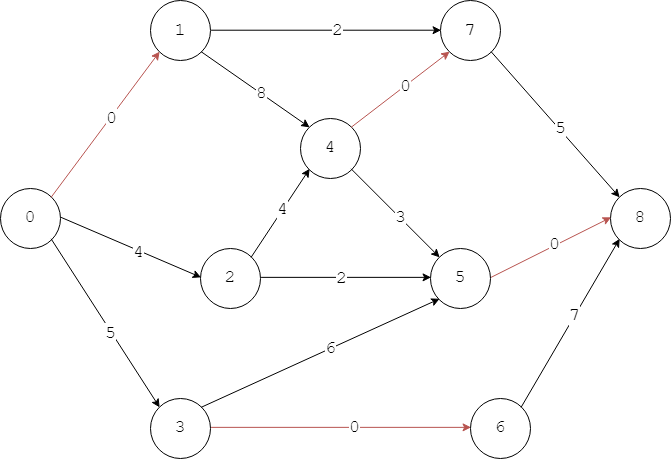
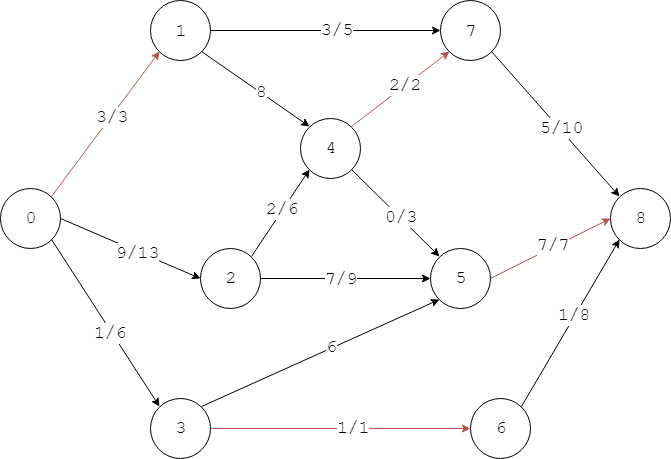
add dinic picture, update left flow formula

diff --git a/docs/GraphTheory/NetworkFlow/PushRelabel/README.md b/docs/GraphTheory/NetworkFlow/PushRelabel/README.md
@@ -10,7 +10,7 @@
 
 #### 定义
 
-设网络中每个节点都有一个水位高度$$ level $$，设节点$$ v_i $$的邻节点为$$ [v_{1}, v_{2}, \dots, v_{n}] $$，与这些邻节点的边为$$ e_{i,j} $$（其中$$ 1 \leq j \leq n $$），容量为$$ c(i,j) $$。节点$$ v_i, v_j $$已经存在的流为$$ f(i,j) $$，满足反对称性$$ f(i,j) = -f(j,i) $$，当$$ f(i,j) \lt c(i,j) $$时边$$ e_{i,j} $$仍然可以容纳更多的流，当$$ f(i,j) = c(i,j) $$时边$$ e_{i,j} $$为饱和边，不能容纳更多的流。
+设网络中每个节点都有一个水位高度$$ level $$，设节点$$ v_i $$的邻节点为$$ [v_{1}, v_{2}, \dots, v_{n}] $$，与这些邻节点的边为$$ e_{i,j} $$（其中$$ 1 \leq j \leq n $$），容量为$$ c(i,j) $$。节点$$ v_i, v_j $$已经存在的流为$$ f(i,j) $$，满足反对称性$$ f(i,j) = -f(j,i) $$，当$$ c_f(i,j) = c(i,j) - f(i,j) \gt 0 $$时边$$ e_{i,j} $$仍然可以容纳更多的流，当$$ c_f(i,j) = 0 $$时边$$ e_{i,j} $$为饱和边，不能容纳更多的流。
 
 设节点$$ u $$（$$ u \in V \backslash {s, t} $$）的流入和流出之差为：
 
@@ -18,7 +18,7 @@ $$
 x(u) = inflow_{u} - outflow_{u} = \sum_{p \in V} f(p, u) - \sum_{q \in V} f(u, q)
 $$
 
-若相邻节点$$ v_i, v_j $$满足$$ c(i,j) - f(i,j) \gt 0 $$，称$$ v_i, v_j $$之间可以容纳额外/更多的流，否则认为$$ v_i $$无法流向$$ v_j $$。
+若相邻节点$$ v_i, v_j $$满足$$ c_f \gt 0 $$，称$$ v_i, v_j $$之间可以容纳额外/更多的流，否则认为$$ v_i $$无法流向$$ v_j $$。
 
 #### 压入操作
 
@@ -26,7 +26,7 @@ $$
 
 $$ (1) $$ 相邻节点$$ v_i, v_j $$的水位满足$$ level_{i} = level_{j} + 1 $$（称$$ v_j $$在$$ v_i $$的低位，$$ v_i $$在$$ v_j $$的高位）；
 
-$$ (2) $$ 相邻节点$$ v_i, v_j $$的边的容量满足$$ c(i,j) - f(i,j) \gt 0 $$；
+$$ (2) $$ 相邻节点$$ v_i, v_j $$的边的容量满足$$ c_f(i,j) \gt 0 $$；
 
 压入操作：像高处的水流向最低洼的位置，对于满足压入操作条件的相邻节点，由节点$$ v_i $$流向节点$$ v_j $$，边$$ e_{i,j} $$的流更新为：
 
@@ -39,7 +39,7 @@ x(j) -= \Delta
 \end{cases}
 $$
 
-其中$$ \Delta = min(x(i), c(i,j) - f(i,j)) $$。任意节点$$ v_i $$能够流出的最大值为$$ x(i) $$（只有流入才能流出，而不能凭空制造出流），而边$$ e_{i,j} $$能够额外容纳的流为$$ c(i,j) - f(i,j) $$，因此实际能够压入的流最大为两者的最小值。
+其中$$ \Delta = min(x(i), c_f(i,j)) $$。任意节点$$ v_i $$能够流出的最大值为$$ x(i) $$（只有流入才能流出，而不能凭空制造出流），而边$$ e_{i,j} $$能够额外容纳的流为$$ c_f(i,j) $$，因此实际能够压入的流最大为两者的最小值。
 
 网络中将源点视作入流无穷大的节点，即
 
@@ -73,7 +73,7 @@ $$
 
 $$ (1) $$ 节点$$ v_i $$的流入和流出之差满足$$ x(i) \gt 0 $$；
 
-$$ (2) $$ 节点$$ v_i $$存在邻节点$$ v_j $$可以容纳额外的流（即$$ c(i,j) - f(i,j) \gt 0 $$），且水位高度之差满足$$ level_{i} \leq level_{j} $$；
+$$ (2) $$ 节点$$ v_i $$存在邻节点$$ v_j $$可以容纳额外的流（即$$ c_f(i,j) \gt 0 $$），且水位高度之差满足$$ level_{i} \leq level_{j} $$；
 
 重标记操作：
 

diff --git a/docs/GraphTheory/NetworkFlow/Dinic/README.md b/docs/GraphTheory/NetworkFlow/Dinic/README.md
@@ -10,7 +10,11 @@
 
 #### 解法
 
-水位图（Level Graph）/距离标号（Distance Label）：从网络的源点（$$ s $$）出发进行BFS搜索，每个节点的搜索距离（BFS搜索经过的节点数量）即为该节点的水位（$$  $$）/距离（$$ dist $$），其中源点的水位/距离为$$ dist(s) = 0 $$，BFS搜索中相邻节点的距离之差为$$ 1 $$。
+Dinic算法也属于Ford–Fulkerson方法的一种实现，与Edmonds-Karp算法的区别在于增广路径的搜索方式不同。Dinic算法结合了BFS和DFS两种搜索来寻找增广路径，设计出水位图（Level Graph）/距离标号（Distance Label）来管理。
+
+水位图（Level Graph）/距离图（Distance Graph）：从网络的源点（$$ s $$）出发进行BFS搜索，源点的水位/距离为$$ dist = 0 $$，每个节点根据BFS搜索到的邻节点的水位/距离在该节点的基础上加$$ 1 $$且都相等，即$$ dist(j) = dist(i) + 1 $$（设节点$$ v_j $$是节点$$ v_i $$的BFS搜索的邻节点）。下图演示一个网络的距离图，每个节点上前一个数字为该节点的距离，后一个数字为该节点的下标：
+
+![Dinic1.png](../res/Dinic1.png)
 
 阻塞流（Blocking Flow）：从源点$$ s $$到汇点$$ t $$，上面所有的相邻节点$$ v_i, v_j $$的边$$ e_{i,j} $$可以容纳额外的流$$ c(i,j) \gt f(i,j) $$，且水位差满足$$ dist(i) + 1 = dist(j) $$的。
 
@@ -37,6 +41,12 @@ $$
 $$
 flow += min\{ c(i,j) - f(i,j) \}
 $$
+
+--------
+
+#### Dinic Algorithm
+
+* http://101.96.10.64/www.cse.unt.edu/~tarau/teaching/AnAlgo/Dinic's%20algorithm.pdf
 
 --------
 
